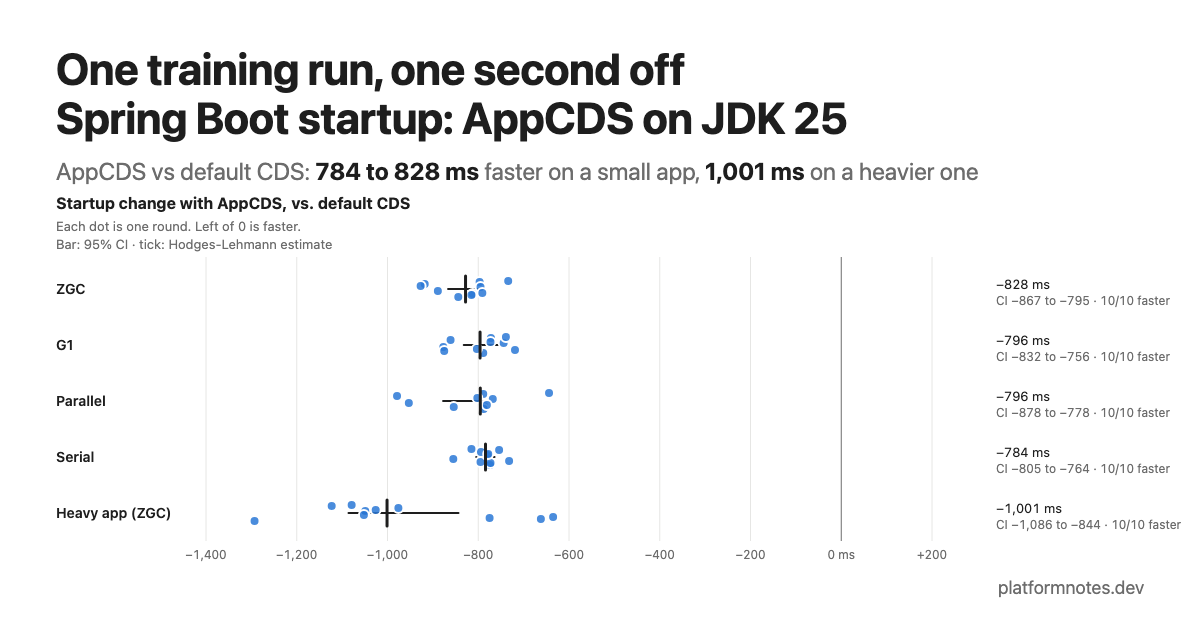
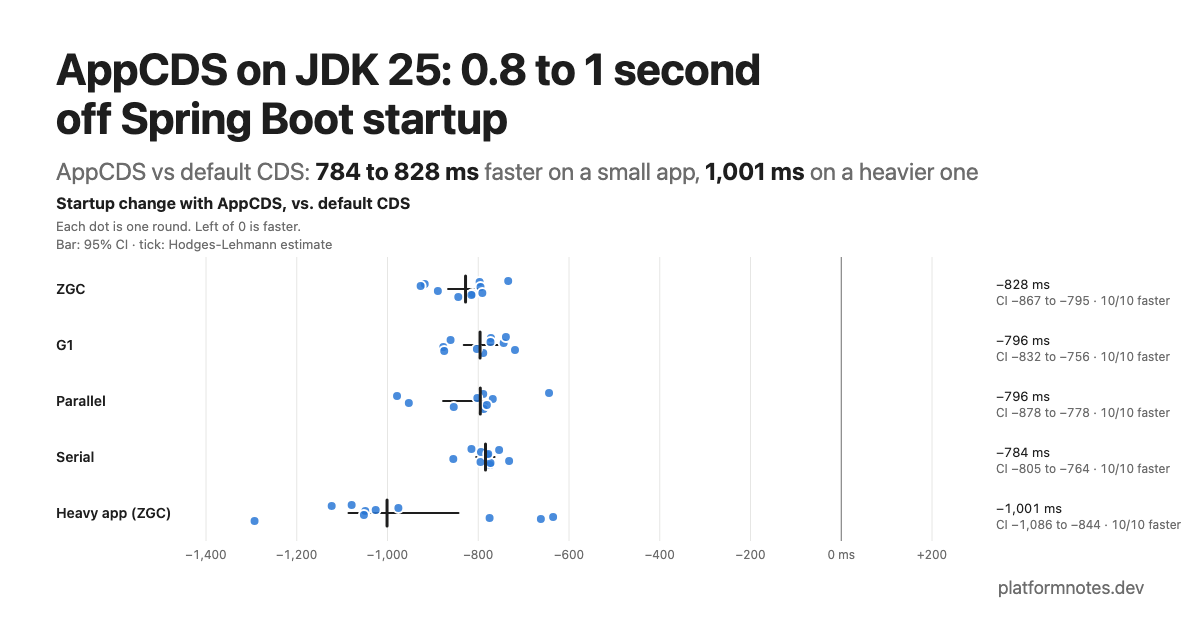
Apply second review round to the AppCDS post
- Title "AppCDS on JDK 25: 0.8 to 1 second off Spring Boot startup", new description
- Fix the -Xmx512m example, the ZGC memory explanation, the 2.3x ratio,
  readiness coverage, AutoCreateSharedArchive and the CDS alert advice
- Say why AppCDS before the AOT cache; rename the mismatch heading
- Drop the pooled percentage; record recipe results, the JDK build,
  the -Xshare:on -version check and the AOT cache on ZGC as evidence

Changed region(s): [[0.0308, 0.0603, 0.7092, 0.2413]]

diff --git a/benchmarks/appcds/cover.html b/benchmarks/appcds/cover.html
@@ -21,7 +21,7 @@
 </head>
 <body>
 <div class="card">
-  <h1>One training run, one second off<br>Spring Boot startup: AppCDS on JDK 25</h1>
+  <h1>AppCDS on JDK 25: 0.8 to 1 second<br>off Spring Boot startup</h1>
   <p class="key">AppCDS vs default CDS: <b id="small"></b> faster on a small app, <b id="heavy"></b> on a heavier one</p>
   <figure class="cp-chart chart"><div class="cp-plot" data-chart="paired-shift"></div></figure>
   <div class="site">platformnotes.dev</div>

diff --git a/benchmarks/appcds/make_charts.py b/benchmarks/appcds/make_charts.py
@@ -42,7 +42,7 @@ def pair(recs, block, a, b, metric):
 
 def main():
     rng = random.Random(SEED)
-    rows, pooled, table = [], [], []
+    rows, table = [], []
     for label, fname, block, p in SETUPS:
         recs = json.load(open(os.path.join(DATA, fname)))
         base, app = pair(recs, block, f"{p}_cds_default", f"{p}_appcds", "process")
@@ -50,7 +50,6 @@ def main():
         diffs = [rnd((b - a) * 1000, 3) for a, b in zip(base, app)]
         hl = hodges_lehmann(diffs)
         lo, hi = boot_hl(diffs, rng)
-        pooled += [d / (st.median(base) * 1000) for d in diffs]
 
         mem = {}
         for m in ("rss", "rss_anon", "rss_file", "metaspace"):
@@ -78,8 +77,6 @@ def main():
                       f"{num(hl, signed=True)} ms ({num(lo, signed=True)} to {num(hi, signed=True)})",
                       f"{sum(d < 0 for d in diffs)}/{len(diffs)}"])
 
-    plo, phi = boot_hl(pooled, rng)
-    phl = hodges_lehmann(pooled)
     shifts = [r["shift"]["v"] for r in rows]
 
     cov = json.load(open(os.path.join(HERE, "coverage.json")))["apps"]
@@ -109,9 +106,8 @@ def main():
         # Axis from the data: every round fits (no clipped points), zero stays visible on the right.
         "axis": {"paired-shift": {"min": 200 * math.floor(min(d["v"] for r in rows for d in r["diffs"]) / 200),
                                   "max": 200, "step": 200}},
-        "pooled": {"faster": sum(r["faster"] for r in rows), "n": sum(r["n"] for r in rows),
-                   "shift_label": num(-100 * phl, 1) + "%",
-                   "ci_label": f"{num(-100 * phi, 1)}% to {num(-100 * plo, 1)}%"},
+        # No pooled percentage: the two apps' percentages differ too much for one average to mean anything.
+        "pairs": {"faster": sum(r["faster"] for r in rows), "n": sum(r["n"] for r in rows)},
         # Saving per extra archived class (ZGC on both apps: the same GC as the coverage counts).
         "per_class_us": {
             "small_zgc": num(-rows[0]["shift"]["v"] * 1000 / (cov["small"]["appcds"]["shared"] - cov["small"]["default"]["shared"]), 1),
@@ -152,7 +148,7 @@ def main():
         json.dump(data, f, indent=1, ensure_ascii=False)
         f.write("\n")
     print(f"wrote {os.path.relpath(OUT, HERE)}")
-    print(f"pooled: {data['pooled']['shift_label']} faster, CI {data['pooled']['ci_label']}, {data['pooled']['faster']}/{data['pooled']['n']}")
+    print(f"pairs faster: {data['pairs']['faster']}/{data['pairs']['n']}")
     for r in rows:
         print(f"  {r['setup']:16} {r['shift']['label']:>7} ms ({r['rel_label']})  CI {r['ci']['label']:>18}  {r['faster']}/10  p={r['p']}  "
               f"anon {r['memory']['rss_anon']['base']}->{r['memory']['rss_anon']['app']} ({r['memory']['rss_anon']['shift']})  "

diff --git a/content/posts/appcds/index.md b/content/posts/appcds/index.md
@@ -1,8 +1,8 @@
 ---
-title: "One training run, one second off Spring Boot startup: AppCDS on JDK 25"
+title: "AppCDS on JDK 25: 0.8 to 1 second off Spring Boot startup"
 date: 2026-10-26
 draft: true
-description: "AppCDS on JDK 25 took 0.8 to 1 second off Spring Boot 4 startup across four GCs. How to train the archive in your image, what it costs, and the flag mismatch that quietly throws it away."
+description: "AppCDS took 0.8 to 1 second off Spring Boot 4 startup on JDK 25. How to train the archive in your image, what it costs, and the settings that make it stop loading."
 tags: ["java", "jvm", "cds", "appcds", "spring-boot", "performance", "startup"]
 ShowToc: true
 ai_disclosure: ai-generated
@@ -14,7 +14,7 @@ cover:
   hiddenInList: true
 ---
 
-If you train a class-data archive for your own Spring Boot app, startup gets 0.8 to 1 second faster. I measured 784 to 828 ms on a small app across four garbage collectors, and 1,001 ms on a heavier one with Postgres, Flyway and 80 JPA entities. You pay for it with one training run in the image build and an archive of about 90 to 100 MB.
+If you train a class-data archive for your own Spring Boot app, startup gets 0.8 to 1 second faster. I measured 784 to 828 ms on a small app across four garbage collectors, and 1,001 ms on a heavier one with Postgres, Flyway and 80 JPA entities. You pay for it with one training run in the image build and an archive of 87 to 104 MB.
 
 Last time I removed a stray `-Xshare:off` and got back [a few tens of milliseconds](/posts/default-cds/), because the JDK's default archive only holds the JDK's own classes. AppCDS goes further and archives yours, as a second layer on top of the JDK's archive.
 
@@ -23,7 +23,7 @@ Last time I removed a stray `-Xshare:off` and got back [a few tens of millisecon
 With default CDS, about 1,400 classes come pre-parsed from the archive. The JVM loads everything else from the JARs and processes it again on every start. An AppCDS archive is trained on your application, so it holds almost everything Spring loads while it builds the application context.
 
 {{< chart "class-coverage" >}}
-Up to Spring's context refresh, AppCDS serves 97% of the small app's classes and 95% of the heavy app's, against 8 to 9% with the default archive. By the time the app reports ready it has loaded more (about 16,000 and 19,400 classes), so at readiness the archive covers about 92% and 91%. Counted with `-Xlog:class+load`, with ZGC.
+Up to Spring's context refresh, AppCDS serves 97% of the small app's classes and 95% of the heavy app's, against 8 to 9% with the default archive. The refresh-time counts come from `-Xlog:class+load`, with ZGC. By the time the app reports ready it has loaded more (about 16,000 and 19,400 classes, by the actuator's class counter), so at readiness the archive covers at least 91% in both apps.
 {{< /chart >}}
 
 ## What I measured
@@ -31,16 +31,16 @@ Up to Spring's context refresh, AppCDS serves 97% of the small app's classes and
 I didn't need a new benchmark for this. The one from the previous post already ran AppCDS as one of its variants: Spring Boot 4.1 on JDK 25 (Temurin 25.0.3, `gcr.io/distroless/java25-debian13`), a container limited to 2 CPUs and 1 GB, and ten rounds that started every variant once in random order. That means each AppCDS boot has a default CDS boot from the same round to be compared with. I compare against default CDS rather than `-Xshare:off` because if you followed the last post, that's what you're running now.
 
 {{< chart "paired-shift" >}}
-AppCDS was faster in all 50 pairs, and every 95% interval ends at least 756 ms below zero. The shift barely changes between garbage collectors.
+AppCDS was faster in all 50 pairs, and every 95% interval ends at least three quarters of a second below zero. The shift barely changes between garbage collectors.
 {{< /chart >}}
 
 {{< results-table >}}
 
-The heavy app gained a bit more time than the small one, roughly in line with how many more classes it archived. Work it out per class and both apps land on about 62 µs per extra archived class (13,247 extra classes for 828 ms, 16,277 for 1,001 ms, both on ZGC). Everything else in the heavy app's startup takes 2.3 times longer, so that same per-class saving is 22% there and 43% on the small app. My guess is that the rest is mostly Postgres, Flyway and Hibernate work that class archives don't touch, but I didn't break it down.
+The heavy app gained a bit more time than the small one, roughly in line with how many more classes it archived. Work it out per class and both apps land on about 62 µs per extra archived class (13,247 extra classes for 828 ms, 16,277 for 1,001 ms, both on ZGC). The heavy app's whole startup takes 2.3 times as long (4.50 s against 1.94 s with default CDS), so a similar saving is 22% of its startup and 43% of the small app's. My guess is that the rest is mostly Postgres, Flyway and Hibernate work that class archives don't touch, but I didn't break it down.
 
 ## Memory
 
-I wouldn't count on saving memory. Metaspace drops from about 72 MB to 11 MB on the small app, but just like with default CDS that's mostly accounting. The archived classes move into the mapped archive and show up as 15 to 18 MB more file-backed memory. Total resident memory, sampled a second after the app reported ready, went down by 13 to 14 MB with Parallel and Serial and didn't change measurably with G1 or on the heavy app. With ZGC it went up by about 15 MB, since ZGC's heap counts as shared memory. Treat those numbers with care, because AppCDS reaches readiness 0.8 seconds earlier and the two variants were sampled at different points in their warm-up. If you want to know when the file-backed part can be shared between JVMs, [the previous post](/posts/default-cds/#where-the-memory-goes) covers it.
+I wouldn't count on saving memory. Metaspace drops from about 72 MB to 11 MB on the small app, but just like with default CDS that's mostly accounting. The archived classes move into the mapped archive and show up as 15 to 18 MB more file-backed memory. Total resident memory, sampled a second after the app reported ready, went down by 13 to 14 MB with Parallel and Serial and didn't change measurably with G1 or on the heavy app. With ZGC it went up by about 15 MB, and that rise comes from the heap. ZGC keeps its heap in shared memory, and when I sampled, the AppCDS runs happened to have more of it resident. The heavy app, also on ZGC, didn't show it. Treat those numbers with care, because AppCDS reaches readiness 0.8 to 1 second earlier and the two variants were sampled at different points in their warm-up. If you want to know when the file-backed part can be shared between JVMs, [the previous post](/posts/default-cds/#where-the-memory-goes) covers it.
 
 ## How to build it
 
@@ -61,7 +61,7 @@ ENTRYPOINT ["java", "-XX:SharedArchiveFile=/app/app.jsa", "-jar", "/app/app.jar"
 
 I adapted this from the benchmark's [Dockerfile](https://github.com/diegourban/diegourban.github.io/blob/master/benchmarks/default-cds/app-src/Dockerfile.gcs) and tested it in [`recipe/`](https://github.com/diegourban/diegourban.github.io/tree/master/benchmarks/appcds/recipe), where 14,686 classes come from the archive as built.
 
-If your Deployment sets its own `JAVA_TOOL_OPTIONS`, those replace the image's, and the two have to agree. Setting it to G1 dropped the count to 1,438 classes, while a Deployment that only added `-Xmx512m` kept all 14,686.
+If your Deployment sets its own `JAVA_TOOL_OPTIONS`, those replace the image's, and the two have to agree. Setting it to G1 dropped the count to 1,438 classes, and so did setting only `-Xmx512m`, because that replaced the image's `-XX:+UseZGC`. With `-XX:+UseZGC -Xmx512m` all 14,686 were still there.
 
 `-Dspring.context.exit=onRefresh` stops the JVM once every bean exists, before the web server, the runners and the readiness events start, so the build doesn't hang on a running server. Anything that loads after that point, or on the first requests, isn't in the archive.
 
@@ -71,11 +71,11 @@ The heavy app validates its Flyway migrations and Hibernate schema on start, so 
 
 The final image also has to contain exactly the JAR files the archive was trained on. AppCDS checks each classpath entry's size and modification time, so copy the archive into an image built from the same layer instead of rebuilding it.
 
-## The flag that throws it away
+## When the archive stops loading
 
 My notes from the first experiment said a mismatched archive fails silently. Measuring it properly for this post showed that the JVM does complain, in a place where it's easy to miss.
 
-I trained an archive with ZGC and started the app with G1. It started normally, and only 1,438 of its 15,313 classes came from the archive instead of 14,686. The JDK's base layer loaded and the app's layer got dropped, so you're back to default CDS without noticing.
+I trained an archive with ZGC and started the app with G1. It started normally, and only 1,438 of its 15,318 classes came from the archive instead of 14,686. The JDK's base layer loaded and the app's layer got dropped, so you're back to default CDS, and the only sign is a few `[warning][cds]` lines in the log.
 
 The archive is tied to the memory layout it was trained with, and the JVM does print four lines about it, right at the top of the startup log:
 
@@ -94,9 +94,9 @@ To catch the mismatch, I'd use one of these:
 
 - Count the archived classes once: run with `-Xlog:class+load` and count the lines with `source: shared objects file`. With a working archive that's close to every class.
 - Start with `-Xshare:on` in a CI smoke test, using the real `-jar` and the production flags. A matched archive starts the app, and a mismatched one makes the JVM refuse to start. Run the check against your app rather than `-version`, because `-version` fails even with a good archive when the classpath doesn't match.
-- Alert on `Unable to use shared archive file` in your logs.
+- Alert on any `[warning][cds]` line in your logs rather than one exact message, since the wording depends on what didn't match.
 
-`-XX:+AutoCreateSharedArchive` regenerates the archive whenever it doesn't match. It needs a writable archive path and makes the first start after a change slow, which suits a long-lived host better than an immutable container image.
+`-XX:+AutoCreateSharedArchive` writes a fresh archive at JVM exit whenever the existing one is missing or doesn't match. The run after a change starts without AppCDS and pays for the dump at shutdown, the dump only happens on a clean exit, and the archive path has to outlive the process. That fits a long-lived host better than an immutable container image.
 
 ## What it costs
 
@@ -115,7 +115,7 @@ JDK 24 added a successor, the AOT cache from Project Leyden ([JEP 483](https://o
 
 ## What I'd do
 
-If you're on JDK 25, train an AppCDS archive in the image build with the exact production JVM options. Then add a `-Xshare:on` smoke test to CI, so a flag mismatch breaks the build instead of costing you that second in production.
+Spring Boot points to the AOT cache, and I haven't measured that yet. Until the next post does, AppCDS is what I've measured on every GC, so on JDK 25 I'd train an AppCDS archive in the image build with the exact production JVM options. Then I'd add a `-Xshare:on` smoke test to CI, so a mismatch breaks the build instead of costing you that second in production. The same train-in-the-build recipe carries over to the AOT cache with `-XX:AOTCacheOutput`.
 
 ## Caveats
 
@@ -124,7 +124,7 @@ These are the same demo apps as before, on one machine (Docker Desktop on an arm
 ## Method and data
 
 - The startup and memory numbers are the AppCDS variant of [the default-CDS benchmark](https://github.com/diegourban/diegourban.github.io/tree/master/benchmarks/default-cds): same runs, same pairing by round, the Hodges-Lehmann estimate with a bootstrap 95% CI (10,000 resamples, fixed seed) and exact Wilcoxon signed-rank tests (p = 0.002 in every setup, the smallest possible with ten pairs). Memory is sampled about a second after readiness. Numbers are rounded half away from zero.
-- Class counts, the flag-mismatch tests, the build cost and the Dockerfile recipe come from [`benchmarks/appcds`](https://github.com/diegourban/diegourban.github.io/tree/master/benchmarks/appcds): `measure_coverage.sh`, `measure_trap.sh`, `measure_build_cost.sh` and `recipe/test.sh`. `make_charts.py` turns the results into the numbers in the charts and the table.
+- Class counts, the mismatch tests, the build cost and the Dockerfile recipe come from [`benchmarks/appcds`](https://github.com/diegourban/diegourban.github.io/tree/master/benchmarks/appcds): `measure_coverage.sh`, `measure_trap.sh`, `measure_build_cost.sh` and `recipe/test.sh` (its output is in `recipe/results.txt`). Build costs are medians of 5 runs (small app) and 3 runs (heavy app); each mismatch case is a single run. `measure_trap.sh` also records the JDK build (Temurin 25.0.3+9) and the `-Xshare:on -version` check, and `measure_aot_zgc.sh` records the AOT cache on ZGC (`aot_zgc.txt`). `make_charts.py` turns the results into the numbers in the charts and the table.
 
 ---
 
